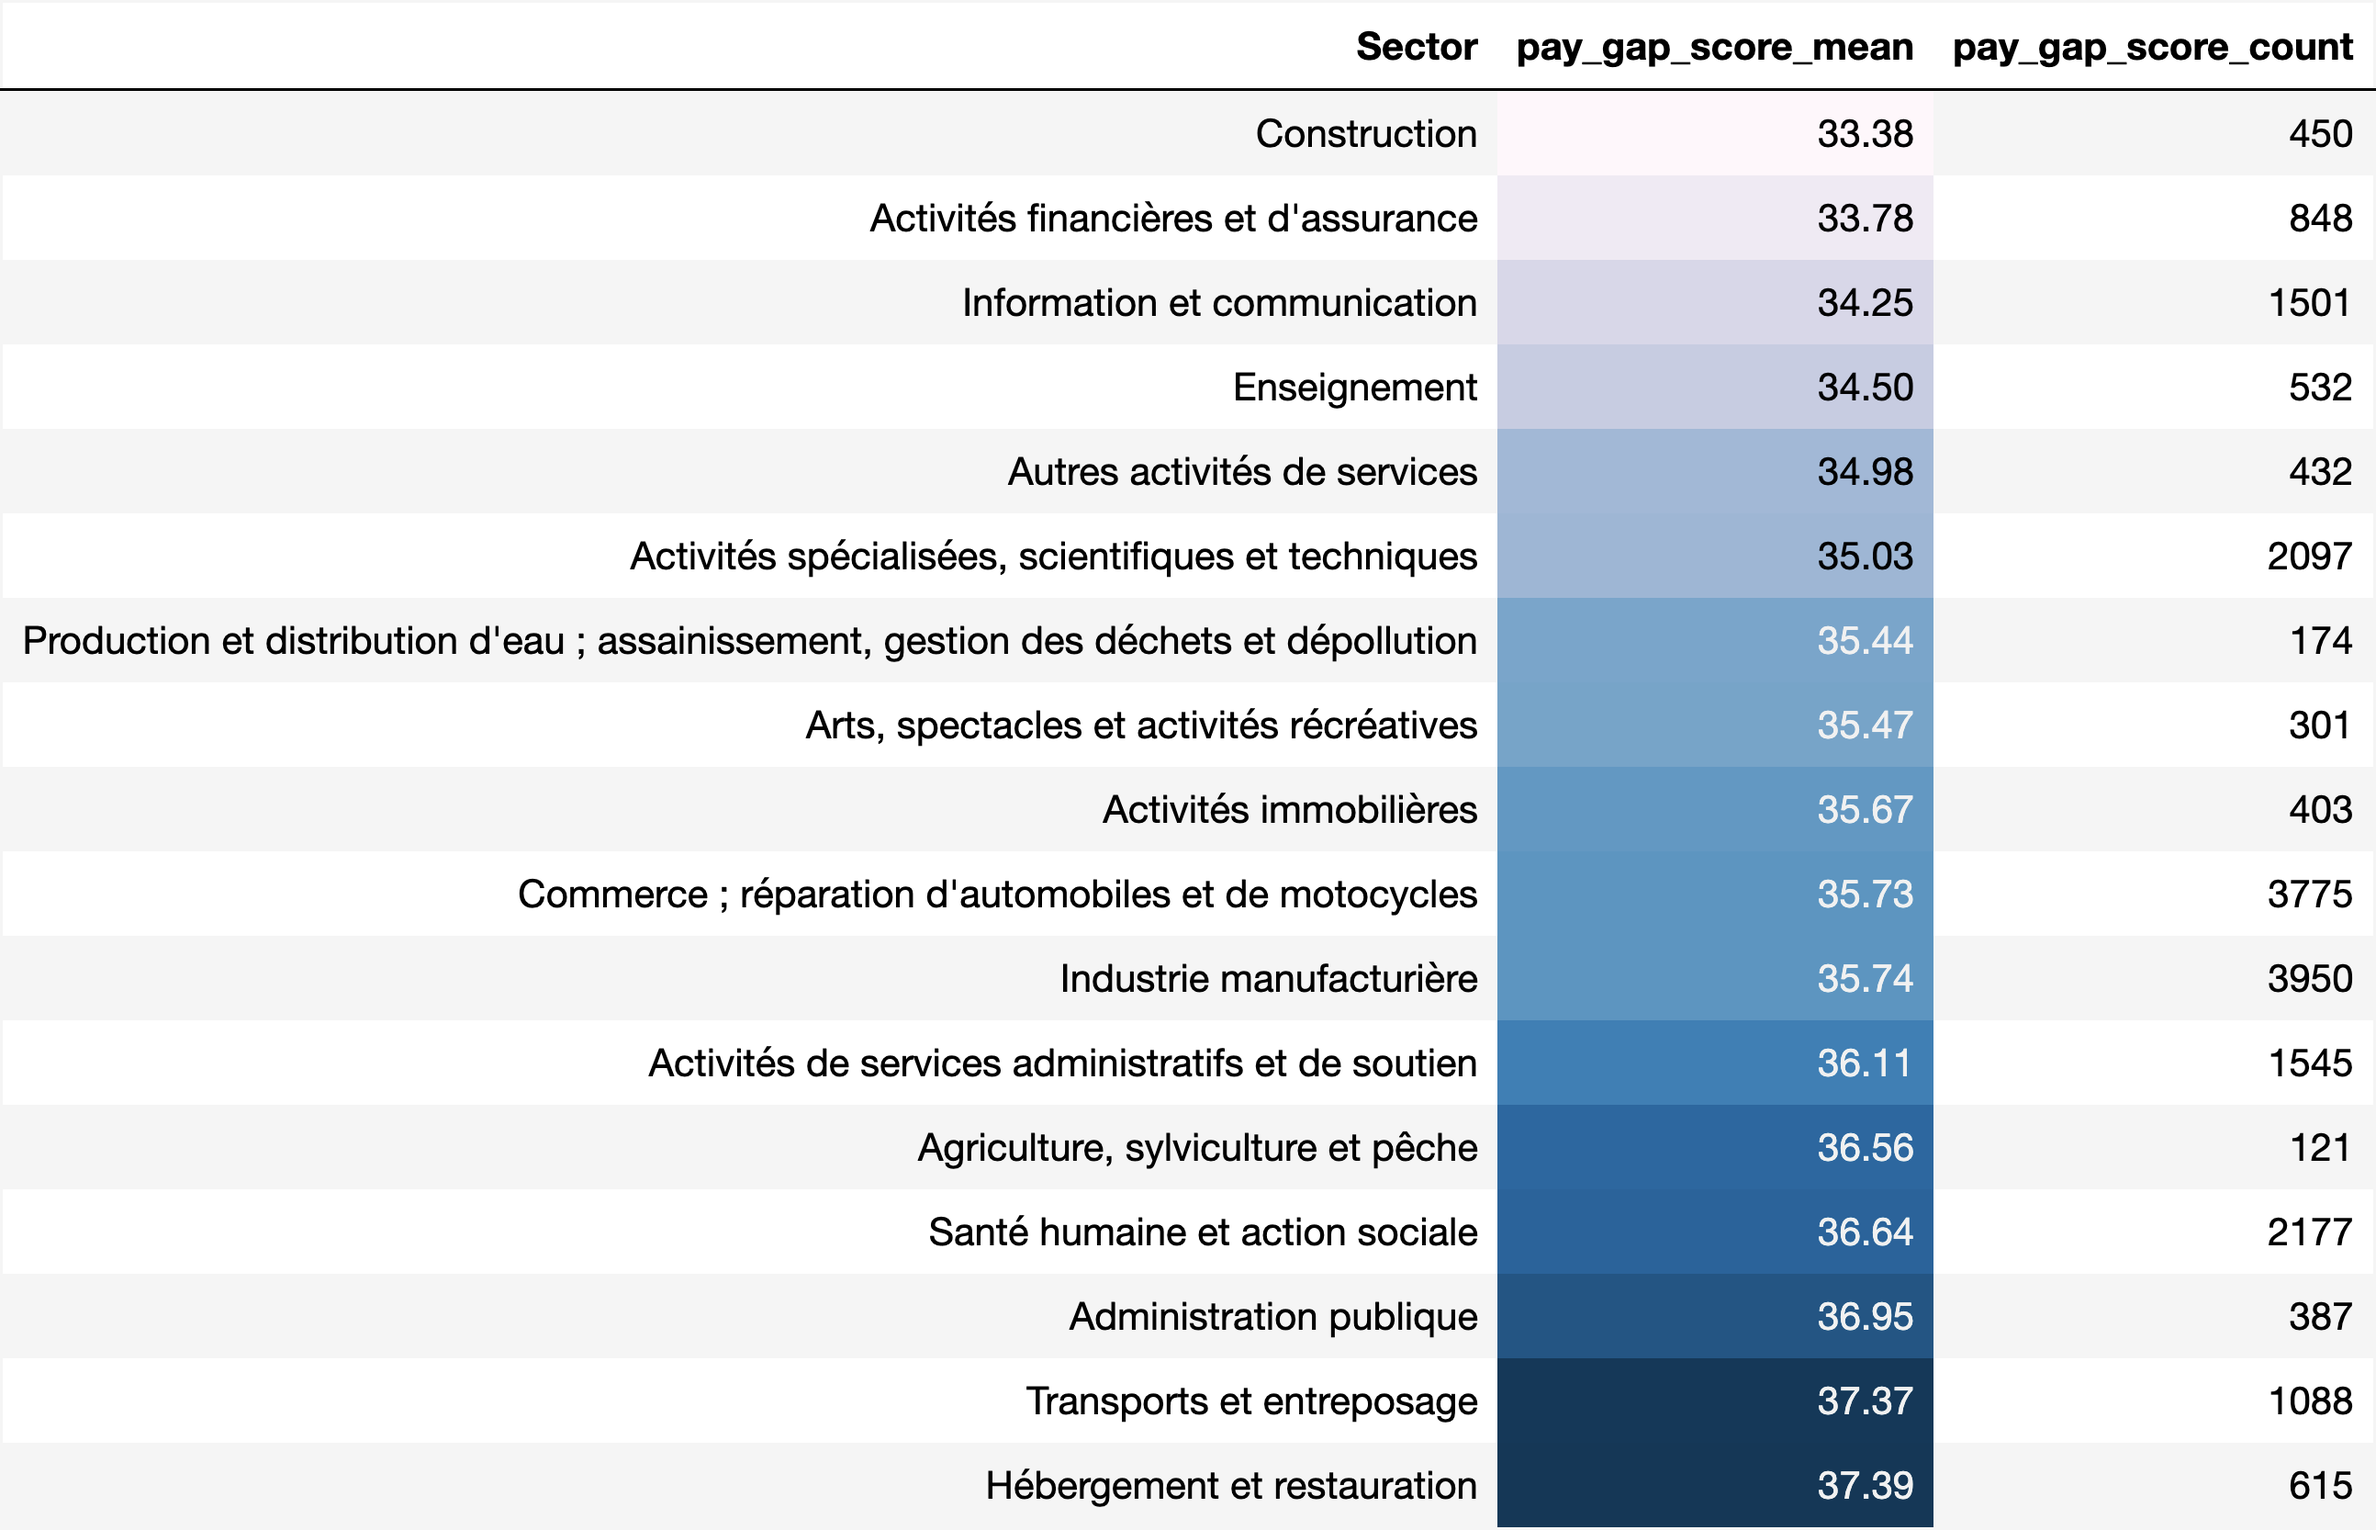
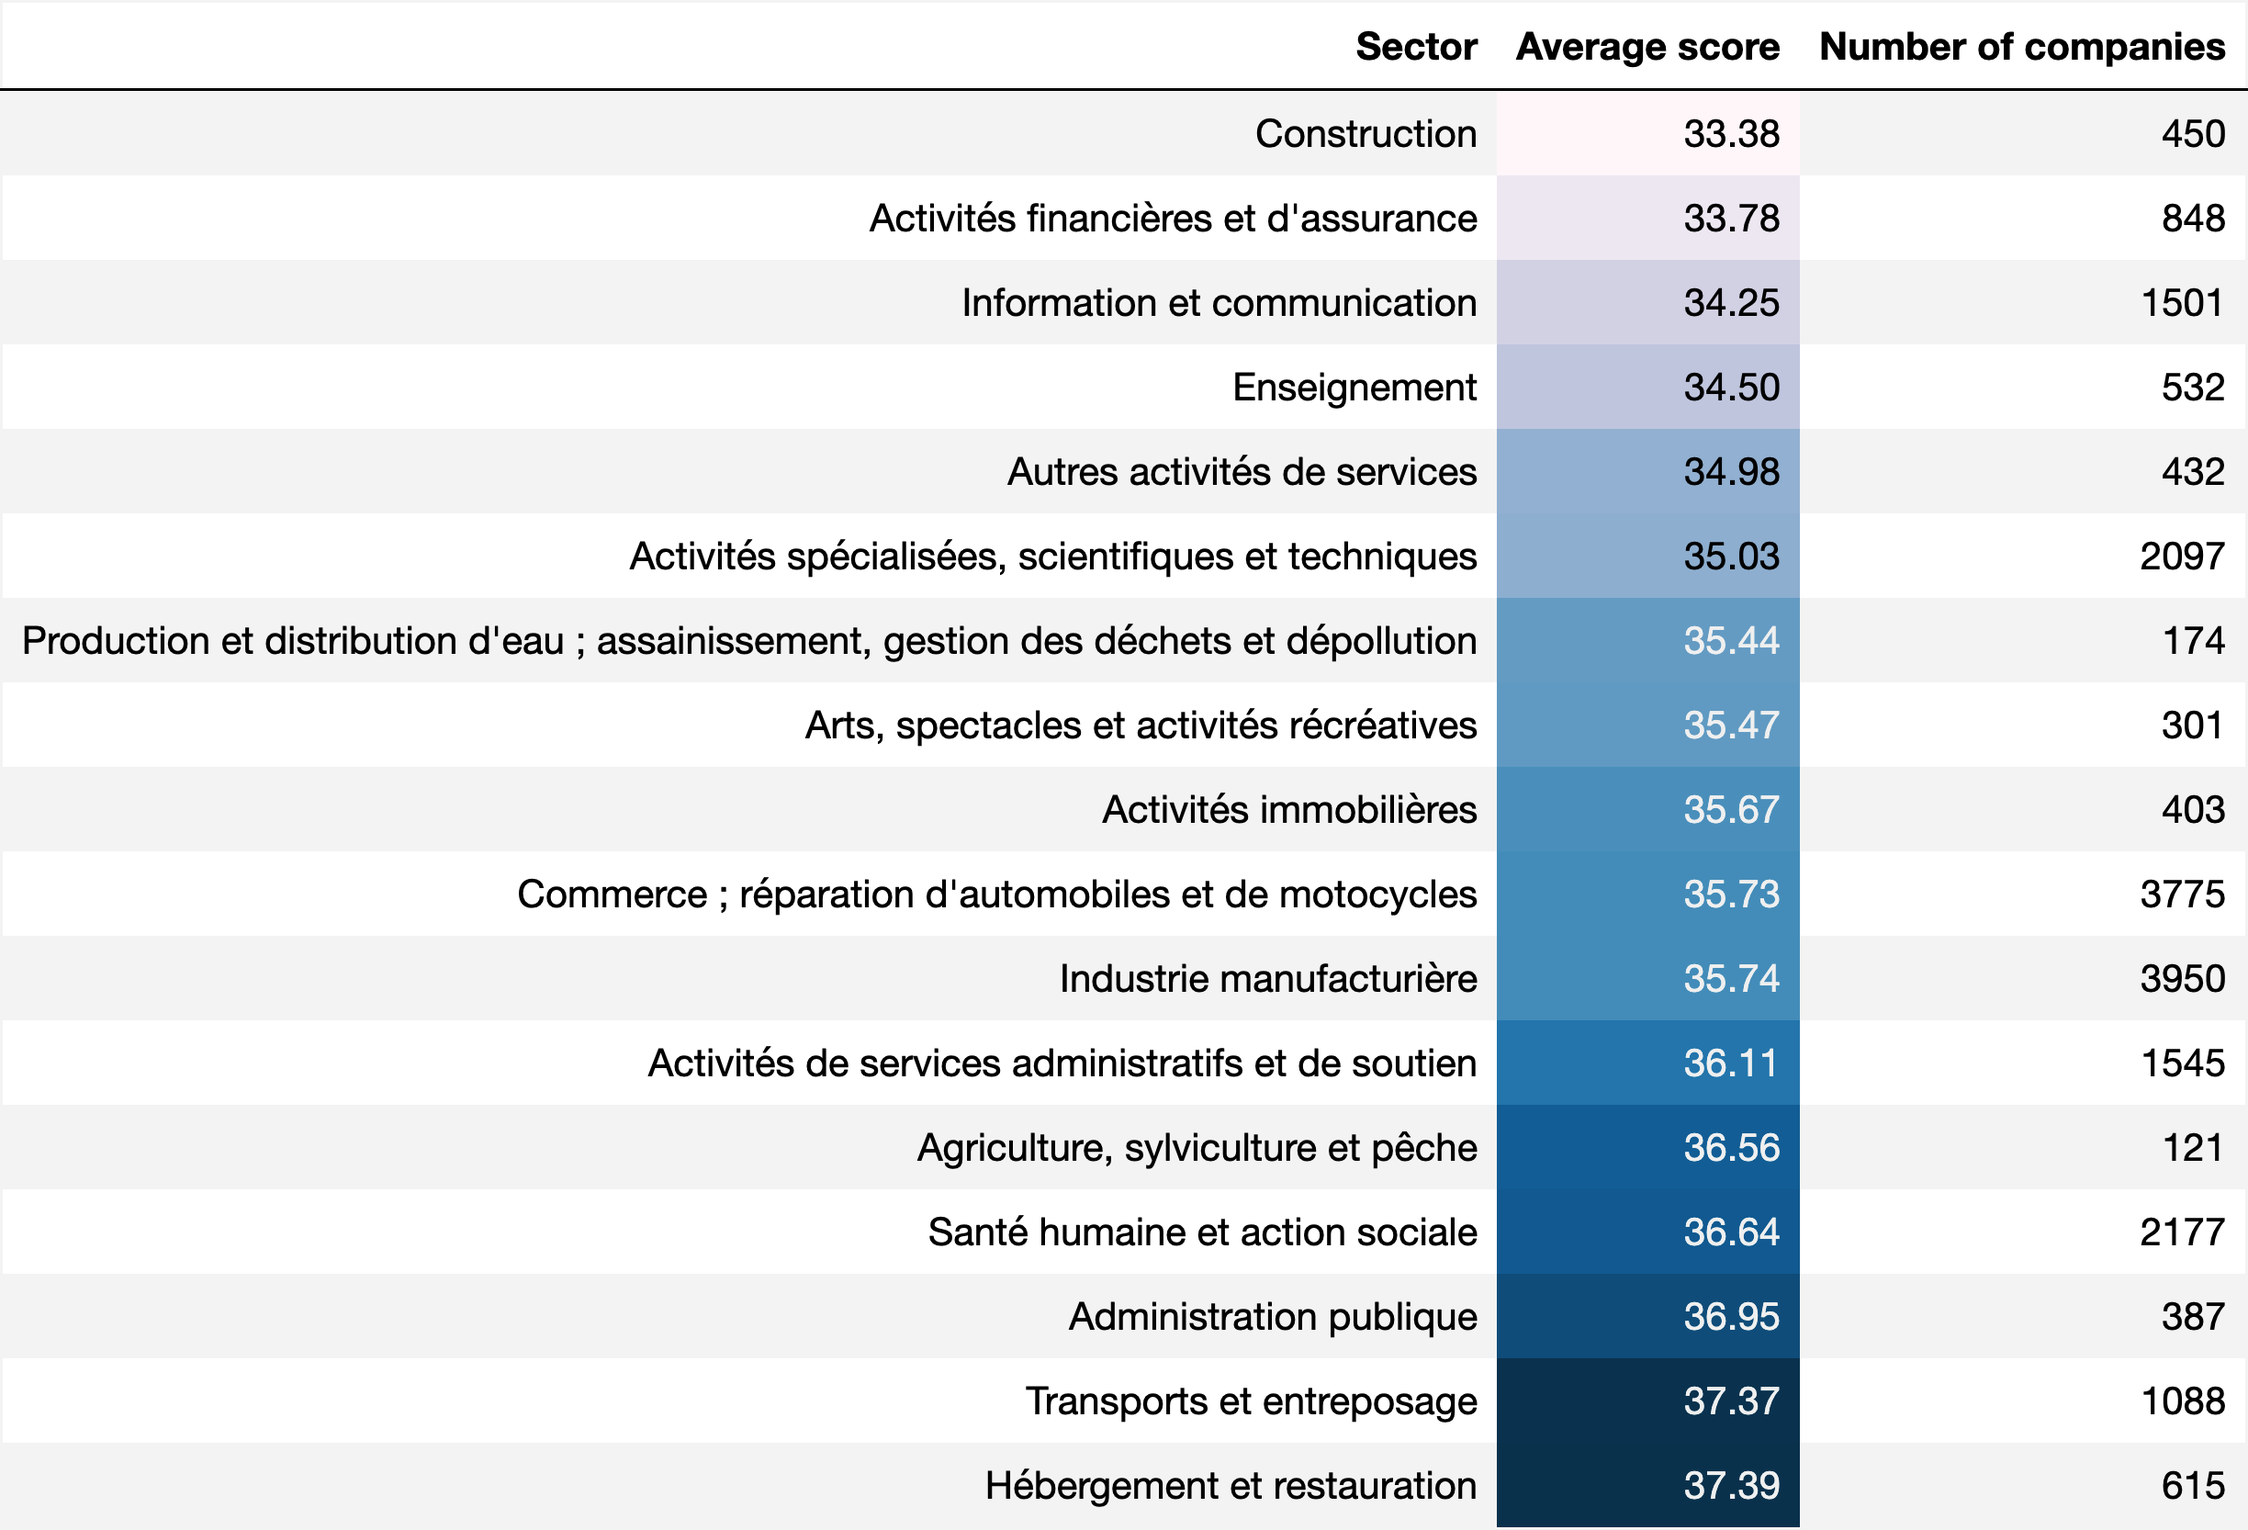
Gender equality index analysis

diff --git a/gender-equality-index-analysis/analysis.py b/gender-equality-index-analysis/analysis.py
@@ -109,7 +109,7 @@ situation_evolution = (
     .plot.bar(stacked=True, colormap=grey_cmap, rot=0, figsize=(12, 6))
 )
 situation_evolution.set_xlabel(None)
-situation_evolution.set_title("The evolution of the gender equality index")
+situation_evolution.set_title("The evolution of the Professional Equality Index")
 
 # %%
 global_score_2023 = df_cleaned[df_cleaned["global_score"] != "NC"]["global_score"]
@@ -123,7 +123,7 @@ plt.axvline(x=75, color="red", linestyle="--")
 plt.text(45, 23500, "Low equitable threshold = 75", color="red")
 plt.xlabel("Total Score")
 plt.ylabel("Number of companies")
-plt.title("Distribution of Gender Equality Index in 2023")
+plt.title("Distribution of Professional Equality Index in 2023")
 
 # scale values to interval [0,1]
 bin_centers = 0.5 * (bins[:-1] + bins[1:])
@@ -189,24 +189,31 @@ df_merged = pd.merge(
 average_pay_gap_score_by_naf = (
     df_merged.groupby("Libellé")
     .agg(
-        pay_gap_score_mean=("pay_gap_score", "mean"),
-        pay_gap_score_count=("pay_gap_score", "count"),
+        mean=("pay_gap_score", "mean"),
+        count=("pay_gap_score", "count"),
     )
     .reset_index()
-    .sort_values(by="pay_gap_score_mean", ascending=True)
+    .sort_values(by="mean", ascending=True)
 )
 average_pay_gap_score_by_naf = average_pay_gap_score_by_naf[
-    average_pay_gap_score_by_naf["pay_gap_score_count"] >= 100
+    average_pay_gap_score_by_naf["count"] >= 100
 ]
-average_pay_gap_score_by_naf["pay_gap_score_mean"] = (
-    average_pay_gap_score_by_naf["pay_gap_score_mean"].apply(pd.to_numeric).round(2)
+average_pay_gap_score_by_naf["mean"] = (
+    average_pay_gap_score_by_naf["mean"].apply(pd.to_numeric).round(2)
 )
 
-average_pay_gap_score_by_naf.rename(columns={"Libellé": "Sector"}, inplace=True)
+average_pay_gap_score_by_naf.rename(
+    columns={
+        "Libellé": "Sector",
+        "mean": "Average score",
+        "count": "Number of companies",
+    },
+    inplace=True,
+)
 average_pay_gap_score_by_naf = (
     average_pay_gap_score_by_naf.style.hide()
     .format(precision=2)
-    .background_gradient(axis=0, subset=["pay_gap_score_mean"])
+    .background_gradient(axis=0, subset=["Average score"])
 )
 dfi.export(
     average_pay_gap_score_by_naf, "output/average_pay_gap_score_by_naf.png", dpi=300

diff --git a/gender-equality-index-analysis/gender-equality-index-analysis.md b/gender-equality-index-analysis/gender-equality-index-analysis.md
@@ -113,7 +113,7 @@ year_counts = year_counts.set_index('Year').transpose()
 dfi.export(year_counts, 'year_counts.png', dpi=150)
 ```
 
-![Number of companies publish their result](./year_counts.png)
+![Number of companies publish their result](./output/year_counts.png)
 
 The expansion of the index in September 2019 and March 2020 explains the huge increment in the number of companies that published their score for 2019.
 This phenomenon is more visible when we group companies by `size`.
@@ -122,7 +122,7 @@ This phenomenon is more visible when we group companies by `size`.
 df_cleaned.groupby(['year', 'size']).size().unstack().plot.bar(stacked=True, rot=0, figsize=(12, 6), colormap=grey_cmap)
 ```
 
-![Number of companies published their gender equality index](./company_publish_score.png)
+![Number of companies published their gender equality index](./output/company_publish_score.png)
 
 An emerging question is whether all companies with more than 50 employees fulfill their obligations. We need to know how many companies have more than 50 salaries to respond to that question. Unfortunately, we don't have the exact number so we'll try to find an acceptable approximate.
 
@@ -179,13 +179,13 @@ Example:
 
 A note below 75 is considered a notable inequality. The company has 3 years to improve the situation. We categorize companies into 3 groups: `To improve` (note < 75), `Equitable` (note >= 75), and `Insufficient data` (note = NC). The following graph illustrates the evolution of 3 groups in the period 2018 - 2023.
 
-![Gender equality index evolution. 2018 - 2023](./gender_equality_score_evolution.png)
+![Gender equality index evolution. 2018 - 2023](./output/professional_equality_score_evolution.png)
 
 The number of companies in inequitable conditions reduced constantly but slowly. In contrast, the number of companies in good condition increased. However, there is a non-negligible number of companies that don't have enough data to compute the global score. We'll explain this case when diving into the 2 most important indicators: `Gender pay gap` and `Salary raises & promotion distribution gap` in the following sections.
 
 In terms of distribution, here's how companies' scores are distributed for 2023.
 
-![Distribution of gender equality index in 2023](./2023_score_distribution.png)
+![Distribution of gender equality index in 2023](./output/2023_score_distribution.png)
 
 ### Gender pay gap indicator
 
@@ -221,14 +221,14 @@ This number is adjusted by a "perfect threshold" of **5%** if the company uses t
 
 The following table represents the ratio of companies having non-calculable pay gap scores. Small companies with employees distributed evenly across groups might not have any groups satisfy the condition (\*), resulting in a non-calculable indicator and thus a non-calculable global score.
 
-![Non-calculable pay gap score ratio](./nc_pay_gap_ratio_by_size.png)
+![Non-calculable pay gap score ratio](./output/nc_pay_gap_ratio_by_size.png)
 
 **About the calculation**
 
 Based on the calculating method, we can see that the indicator is heavily impacted by the most popular group in a company and can possibly hide the inequalities in smaller groups.
 
 The following table represents the average pay gap score for each company size. We can see that the average note of big corporations is always higher than the one of smaller companies.
-![Average pay gap score](./average_pay_gap_by_size.png)
+![Average pay gap score](./output/average_pay_gap_by_size.png)
 
 The 4th indicator `Parity among the 10 highest salaries` also involves wage equality. The correlation between these 2 indicators is only **0.12**, which indicates a **very weak relation** between them.
 
@@ -240,7 +240,7 @@ Using the column `naf_code` that represents the company's activity code, we can 
 
 The following table shows the average pay gap score by sector for 2023. It's worth noting that the highest salary disparities occur in industries with high levels of cognitive demand such as Financial and insurance activities, Information and Communication, Education, and Scientific and technical activities.
 
-![Average pay gap score by sector](./average_pay_gap_score_by_naf.png).
+![Average pay gap score by sector](./output/average_pay_gap_score_by_naf.png).
 
 ### Salary raises and promotions distribution gap
 
@@ -263,13 +263,13 @@ For all indicators in this group, if the result is favored for the less well-pai
 **A more popular indicator**
 
 The following table illustrates the ratio of companies that don't dispose of sufficient data to compute the augmentation distribution gap score. The condition is harder to meet for smaller companies. However, it is much more reachable than the first indicator where we already saw 3 times higher ratios.
-![Non calculable augmentation distribution gap score](./nc_augmentation_gap_ratio_by_size.png)
+![Non calculable augmentation distribution gap score](./output/nc_augmentation_gap_ratio_by_size.png)
 
 **The situation is improved globally**
 
 The 2 following tables show the average augmentation distribution gap score. The steady increase in scores over the years indicates that the situation is gradually improving. 
-![Average augmentation distribution gap score - Companies with 50 - 250 employees](./average_aug_gap_score_50_250.png).
-![Average augmentation distribution gap score - Companies with more than 250 employees](./average_aug_gap_score_above_250.png).
+![Average augmentation distribution gap score - Companies with 50 - 250 employees](./output/average_aug_gap_score_50_250.png).
+![Average augmentation distribution gap score - Companies with more than 250 employees](./output/average_aug_gap_score_above_250.png).
 
 **Ranked augmentation distribution gap score by sector**
 
@@ -277,8 +277,8 @@ Joining the data with the activity hierarchical dataset as shown in the previous
 
 The 2 following tables show the average augmentation distribution gap score by sector for 2023. Industries with low pay gap scores like Scientific and technical activities, Financial and insurance activities, Information and Communication, and Education have good scores this time. This indicates that efforts are being made to reduce gender inequality in these industries. In contrast, the Accommodation and restoration industry, which has the smallest pay gap between men and women, exhibits an inequality in salary raises and promotion. Most notably, the construction industry has low scores in both of these important criteria.
 
-![Average augmentation distribution gap score by sector - Companies with 50 - 250 employees](./average_aug_gap_score_50_250_by_naf.png).
-![Average augmentation distribution gap score by sector - Companies with more than 250 employees](./average_aug_gap_score_above_250_by_naf.png).
+![Average augmentation distribution gap score by sector - Companies with 50 - 250 employees](./output/average_aug_gap_score_50_250_by_naf.png).
+![Average augmentation distribution gap score by sector - Companies with more than 250 employees](./output/average_aug_gap_score_above_250_by_naf.png).
 
 ### Conclusion
 In this article, we examined the Gender Equality Index dataset. Through data analysis and visualization, we have a better understanding of the gender equality index at work as well as its two main components: the salary gap index and the augmentation distribution gap index. Through this analysis, we have seen that there are still many companies with more than 50 employees that do not publish the index, even though this is required. The way the pay gap index is calculated makes it impossible for many companies to calculate it, leading to the overall index being incalculable. Additionally, this index also can potentially hide inequality among minority groups within the company. The positive point is that the general index and its two key components are improving year after year. Finally, data aggregation always comes with a loss of detail. Gender balance at work is a complex aspect that is difficult to cover with one number fully. There we should delve deeper into the facts instead of drawing conclusions based on a single figure.
